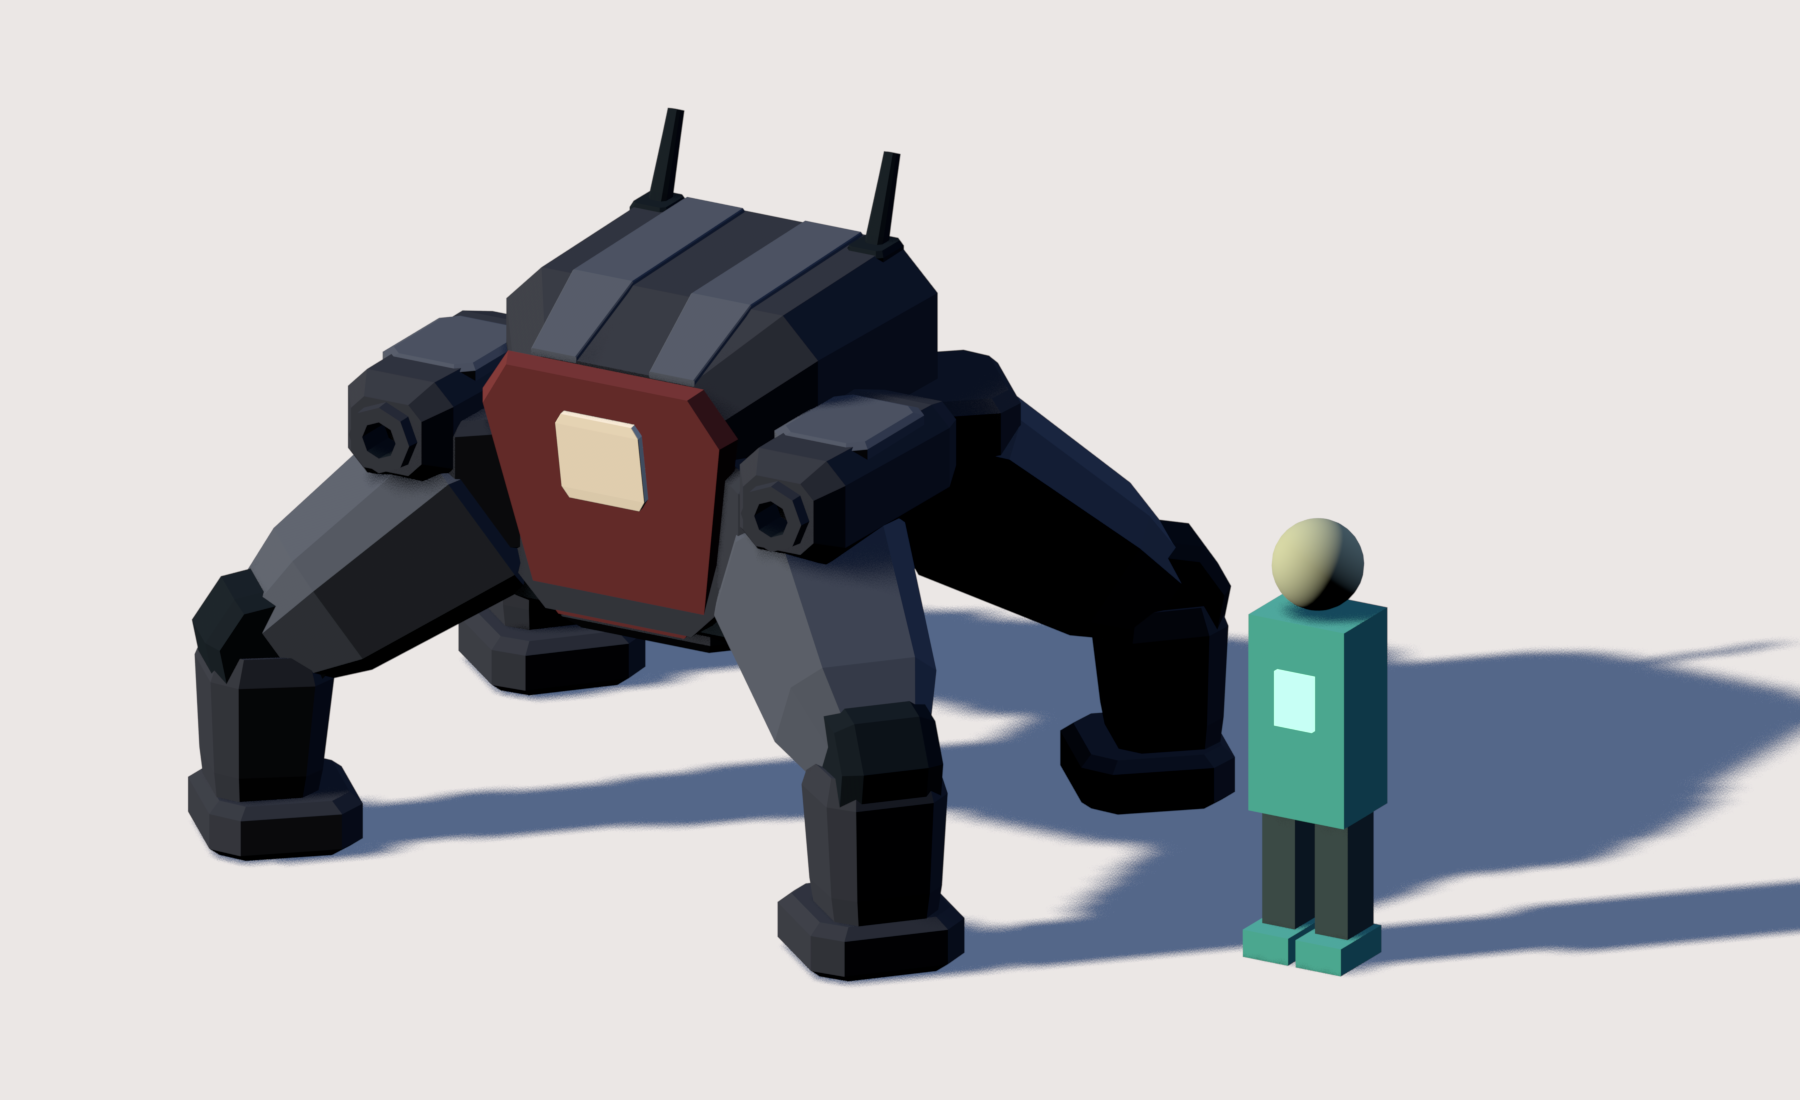
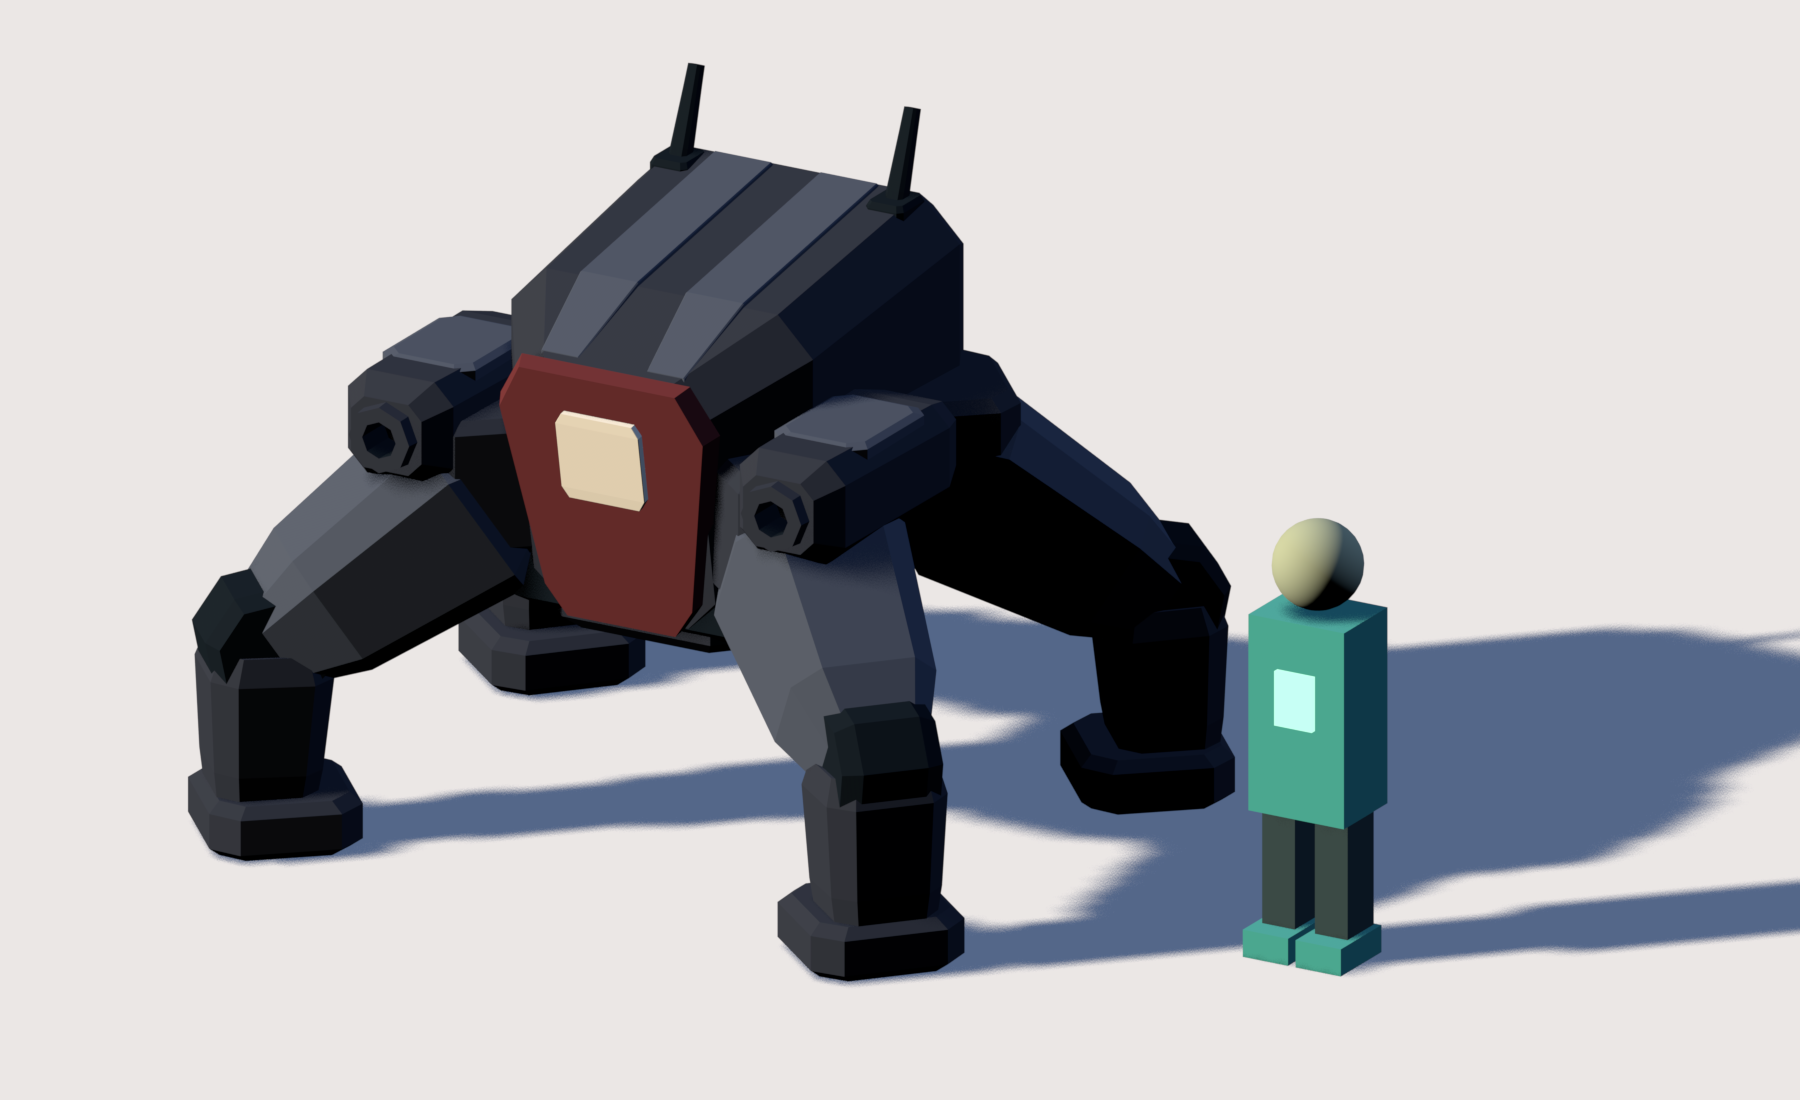
Lengthen C robot body, raise its back and narrow the face

Changed region(s): [[0.2489, 0.0618, 0.56, 0.5873], [0.7467, 0.5564, 1.0, 0.7109], [0.5911, 0.7418, 0.6222, 0.7727]]

diff --git a/apple/sources/content/RobotModelGeometry.swift b/apple/sources/content/RobotModelGeometry.swift
@@ -11,7 +11,7 @@ enum RobotModelGeometry {
 
   // Combat offsets use game axes, facing -z. Gun 0 is the source's left gun.
   static let bodyRadius: Float = 1.298624
-  static let halfHeight: Float = 1.174272
+  static let halfHeight: Float = 1.234272
   static let navigationRadius: Float = 2.067892
   static let gunMounts: [SIMD3<Float>] = [
     [0.78, 1.52, -0.28],

diff --git a/blender/assets/spider-bot-heavy/README.md b/blender/assets/spider-bot-heavy/README.md
@@ -1,6 +1,6 @@
 # spider-bot-heavy
 
-**Status:** The original C form and motion were accepted, integrated and delivered in TestFlight build 29. The maintainer then reported that the game model did not match the agreed concept closely enough and assigned improvements. This source and its three PNG previews now contain a silhouette refinement awaiting visual review; it is not an approved or released replacement. The full check and rendered first-fight test pass on this revision. A remains a possible later different-weapon variant, outside this task. Camera B remains approved.
+**Status:** The original C form and motion were accepted, integrated and delivered in TestFlight build 29. After a first silhouette refinement, the maintainer said the legs look good and requested a longer body, a slightly taller back and a narrower face. This source and its four PNG previews contain that body pass, pending visual review. The current body pass passes the full check and rendered first-fight test (35/35). It is not an approved or released replacement. A remains a possible later different-weapon variant, outside this task. Camera B remains approved.
 
 ![Actual Blender render of the C heavy walker](preview.png)
 
@@ -13,7 +13,7 @@ The earlier [spider-bot](../spider-bot/README.md) remains a rejected historical 
 
 The self-contained `spider-bot-heavy` collection uses metres, stands on z = 0 at its centred origin and faces Blender −y. Its **41 mesh Objects share 17 unique Mesh datablocks**, with **2,492 evaluated triangles and five materials**. Reuse is an authoring property, not measured runtime instancing or draw calls.
 
-The pending refinement gives C a longer tapered face, sloping roof panels, substantial integrated cannon housings with recessed bores, and stouter knees, lower legs and feet. Pivots, actions, link lengths and muzzle-marker transforms remain unchanged. It retains the six shared leg-component meshes, each used four times, and the paired gun components.
+The first refinement added a tapered face, sloping roof panels, integrated cannon housings with recessed bores, and stouter knees, lower legs and feet. The current body pass extends the rear shell by **0.20 m**, raises its roof peak by **0.13 m** and narrows the face by **14%**. Antenna meshes are reseated **0.14 m rearward and 0.12 m upward**. Leg and gun geometry, pivots, actions, link lengths and muzzle-marker transforms remain unchanged from the first refinement. The six shared leg-component meshes still have four users each.
 
 All four legs use the same six shared meshes: socket armour, hip hinge, upper armour, knee hinge, lower link and foot. Editing a component's Mesh in Edit Mode updates its four instances. Moving or posing an Object affects that instance only. Neutral left/right geometry mirrors across x = 0, including material assignments. Proper rotations place each assembly; object scales stay positive and unit. Independently posed legs during a step do not alter this shared geometry.
 
@@ -36,7 +36,7 @@ root
     muzzle-left                 Moves with its barrel
 ```
 
-Connectors sit at `(±0.58, ±0.42, 1.28)` m. Joint pivots meet at their link endpoints; the upper/lower links measure **1.01 / 0.57 m**. Opening the knees slightly gives the shape room to step: current neutral vertex bounds are about **3.02 × 2.56 × 2.35 m**, versus the static study's 2.83 × 2.51 × 2.35 m. Intake's conservative transformed-box bounds are slightly larger. These are provisional authoring dimensions, not approved collision or clearance measurements.
+Connectors sit at `(±0.58, ±0.42, 1.28)` m. Joint pivots meet at their link endpoints; the upper/lower links measure **1.01 / 0.57 m**. Opening the knees slightly gives the shape room to step: current neutral vertex bounds are about **3.02 × 2.56 × 2.47 m**, versus the static study's 2.83 × 2.51 × 2.35 m. Intake's conservative transformed-box bounds are slightly larger. These are provisional authoring dimensions, not approved collision or clearance measurements.
 
 To attach another assembly, select its connector and descendants, duplicate with linked data and place the new connector. Preserve the hierarchy, joint-local origins and unit scales. Make mesh data single-user only for a deliberate new component. Paired roof ridges, antennae, mounts and gun parts also share data. Each gun's separate recoil root carries its housing, plate, barrel and muzzle marker together, providing an attachment point for later variants without building those variants now.
 
@@ -61,26 +61,27 @@ Firing plants all four feet before recoil starts. Both guns use matching stroke/
 
 ## Review and validation
 
-The retained [30-second motion reel](motion-preview.mp4) is a **historical accepted-rig reference showing the earlier 2,428-triangle form**, not the current refinement. It presents separate labelled shots: walk at 0–8 s, turn left at 8–16 s, turn right at 16–24 s, brace/fire/recover at 24–30 s. It is H.264, 960 × 720, 24 fps, with 720 decoded frames. The current [hero preview](preview.png) and [view beside Miki](scale-preview.png) show the refined mesh. The [camera B study](camera-b-preview.png) uses the approved offset `[0, 56, 44]` with the existing **15.4° combat lens**, Miki 8 m from the guard, a 3 m camera lean and target height 0.95 m. The normal lens remains 22°. These PNGs are Blender studies, not Simulator screenshots.
+The retained [30-second motion reel](motion-preview.mp4) is a **historical accepted-rig reference showing the earlier 2,428-triangle form**, not the current refinement. It presents separate labelled shots: walk at 0–8 s, turn left at 8–16 s, turn right at 16–24 s, brace/fire/recover at 24–30 s. It is H.264, 960 × 720, 24 fps, with 720 decoded frames. The current [hero preview](preview.png), [side profile](side-preview.png) and [view beside Miki](scale-preview.png) show the body pass. The [camera B study](camera-b-preview.png) uses the approved offset `[0, 56, 44]` with the existing **15.4° combat lens**, Miki 8 m from the guard, a 3 m camera lean and target height 0.95 m. The normal lens remains 22°. These PNGs are Blender studies, not Simulator screenshots.
 
 They use the bridge's two suns and an authoring exposure of +0.7. Ground, Miki, lights and cameras exist only in unsaved render copies. Public PNG metadata is removed without changing pixels. The Blender source and movie use Git LFS; PNGs below 1 MiB use ordinary Git under the [storage policy](../../../CONTRIBUTING.md#git-lfs-and-cloning).
 
 **Historical motion-study checks, before this refinement:** `./scripts/check` passed contracts, 51 Blender tests, sound fingerprints, Swift formatting, the shared app build and hosted Simulator tests. Independent saved-file inspection sampled 7,204 poses at 240 Hz, including half-key subframes: stance drift stayed below 0.029 mm, stance yaw drift below 0.000060°, foot tilt below 0.0053° and sole penetration below 0.012 mm. Joint gaps were zero; link-length error was below 0.00000023 m. Neutral geometry/material symmetry error was below 0.00000029 m and mirrored-turn error below 0.0000036 m. Shared-data identity, positive unit scales, topology, part contact, materials, muzzle placement, intake and privacy checks passed. Sampled rendered poses were inspected; all 720 movie frames decoded successfully. Prior static checks remain historical in the [prototype plan](../../../docs/prototype-plan.md#concept-c-proportion-study).
 
-**Current refinement checks:** Independent saved-file audits confirm closed manifold meshes, positive volumes, neutral geometry/material symmetry and unchanged pivots, actions and muzzle transforms. The leg-motion audit sampled 7,265 poses: sole penetration remained below 0.012 mm, stance sole-height error below 0.029 mm and foot tilt below 0.0053°. The final cannon-bore revision changes only the shared gun housing/barrel meshes, so the unchanged leg geometry and keys retain that audit. These authoring checks do not establish visual acceptance, runtime verification or phone performance.
+**Current body-pass checks:** Independent saved-file audits confirm closed manifold meshes, positive volumes, neutral geometry/material symmetry and unchanged leg/gun geometry, pivots, actions and muzzle transforms. The leg-motion audit sampled 7,265 poses: sole penetration remained below 0.012 mm, stance sole-height error below 0.029 mm and foot tilt below 0.0053°. The unchanged leg geometry and keys retain that audit through the body pass. These authoring checks do not establish visual acceptance, runtime verification or phone performance.
 
 The maintainer accepted this source motion and assigned bridge integration. The [first-tower record](../../../docs/encounters/bridge-spider-bot.md) describes the initial gameplay choices and remaining balance questions.
 
 | File | Size in bytes | Storage |
 |---|---:|---|
-| `spider-bot-heavy.blend` | 1,721,736 | Git LFS |
+| `spider-bot-heavy.blend` | 1,721,852 | Git LFS |
 | `motion-preview.mp4` | 1,274,401 | Git LFS |
-| `preview.png` | 354,143 | Ordinary Git |
-| `scale-preview.png` | 449,571 | Ordinary Git |
-| `camera-b-preview.png` | 114,433 | Ordinary Git |
+| `preview.png` | 356,503 | Ordinary Git |
+| `scale-preview.png` | 443,938 | Ordinary Git |
+| `camera-b-preview.png` | 115,621 | Ordinary Git |
+| `side-preview.png` | 274,612 | Ordinary Git |
 
 ## Runtime integration
 
 The [runtime USDZ](../../../apple/sources/content/models/spider-bot-heavy.usdz) retains this model's CC BY 4.0 credit and changes. `RobotModelGeometry.swift` is generated alongside it, with both outputs fingerprinted against this Blender source. The output keeps the named leg pivots, gun mounts and muzzle markers; other models retain their existing export path. Runtime stepping follows actual translation and turning, rather than the authoring timeline's travel or reset frames. A remains a later variation, not an extra runtime model.
 
-For the original form shipped in build 29, the standard check, loaded-model joint/muzzle tests and rendered first-fight (35/35), retry (15/15) and full opening (56/56) passed. Runtime gait uses a 1° stop-turn-advance gate and earlier stepping so tested patrol/combat feet remain reachable, with independent FK/stance errors below 0.002 mm. The refined export also passes the full check, including the real-USDZ joint/grounding/muzzle tests, and a new rendered first-fight run (35/35) with no failures or companion warnings. Generated bounds follow the new geometry: navigation clearance increases by about 3 mm. See the [runtime verification](../../../docs/prototype-plan.md#c-silhouette-refinement--awaiting-visual-review). No new TestFlight delivery is claimed. The authoring audits above are not measurements of runtime gait or physical-phone performance.
+For the original form shipped in build 29, the standard check, loaded-model joint/muzzle tests and rendered first-fight (35/35), retry (15/15) and full opening (56/56) passed. Runtime gait uses a 1° stop-turn-advance gate and earlier stepping so tested patrol/combat feet remain reachable, with independent FK/stance errors below 0.002 mm. The first refinement at `3d5d810` also passed the full check and rendered first-fight (35/35), with no failures or companion warnings; its generated navigation clearance increased by about 3 mm. The body pass also passes the full check and a fresh rendered first-fight run (35/35), with no failures or companion warnings. Its generated half-height is 1.234272 m; body/navigation radii, joint lengths and muzzle transforms are unchanged from the first refinement. See the [runtime verification](../../../docs/prototype-plan.md#c-body-proportions--awaiting-visual-review). No new TestFlight delivery is claimed. The authoring audits above are not measurements of runtime gait or physical-phone performance.

diff --git a/docs/prototype-plan.md b/docs/prototype-plan.md
@@ -110,13 +110,13 @@ The follow-up review for [PR #134](https://github.com/RonildoBraga/lauder/pull/1
 
 **TestFlight integration, 23 November 2026:** The maintainer authorised integrating the reviewed work and delivering it through TestFlight. [PR #134](https://github.com/RonildoBraga/lauder/pull/134) incorporated #128–#133 as one squash because the repository allows squash merges only; the earlier drafts were closed as incorporated rather than individually merged. Integrated app/archive source `ea47e2b40d5fa4a4c4c16149e9755ac5475f9b7e` has the exact tree of reviewed release-preparation commit `26c5d99977290283b41e6a2a3ed93dfcabc17c4c`. Apple discovery selected unused **0.1.0 (29)**, and archive/upload rechecked accepted and processing uploads. The [delivery record](#testflight-delivery) confirms processing and unchanged tester access. Physical-phone behaviour and performance remain unverified.
 
-### C silhouette refinement — awaiting visual review
+### C body proportions — awaiting visual review
 
-After build 29 was delivered, the maintainer reported that the robot did not resemble the agreed concept closely enough and assigned improvements. The current [Blender source and three PNG previews](../blender/assets/spider-bot-heavy/README.md) revise the tapered mask and roof, integrate chunkier cannons with recessed bores, and strengthen the lower legs, knees and feet. The model retains 41 mesh Objects, 17 shared Mesh datablocks and five materials, with 2,492 triangles. The six leg-component meshes still have four users each; pivots, actions, link lengths and muzzle transforms remain unchanged.
+After build 29 was delivered, the maintainer reported that the robot did not resemble the agreed concept closely enough and assigned improvements. A first refinement revised the tapered mask and roof, integrated chunkier cannons with recessed bores, and strengthened the lower legs, knees and feet. The maintainer then said the legs look good and requested a longer body, a slightly taller back and a narrower face. The current [Blender source and four PNG previews](../blender/assets/spider-bot-heavy/README.md) apply that body pass: rear shell +0.20 m, roof peak +0.13 m and face width −14%, with the antenna meshes reseated +0.14 m rearward and +0.12 m upward. Leg/gun geometry and the rig are preserved. The model retains 41 mesh Objects, 17 shared Mesh datablocks, five materials and 2,492 triangles; the six leg-component meshes still have four users each.
 
-Independent authoring audits pass for mesh closure, positive volumes, symmetry and preserved rig data. A 7,265-pose leg-motion audit remains valid through the final gun-only correction because leg geometry and keys are unchanged. The replacement PNGs show actual refined geometry; the camera-B study uses the existing 15.4° combat lens, offset `[0, 56, 44]`, Miki 8 m from the guard and a 3 m lean towards it, at target height 0.95 m. They use the bridge lights and +0.7 authoring exposure and are Blender studies rather than Simulator screenshots. The retained movie shows the earlier accepted form.
+Independent authoring audits pass for mesh closure, positive volumes, symmetry, protected leg/gun geometry and preserved rig data. A 7,265-pose leg-motion audit remains valid because leg geometry and keys are unchanged. The replacement PNGs, including a side profile, show actual body-pass geometry; the camera-B study uses the existing 15.4° combat lens, offset `[0, 56, 44]`, Miki 8 m from the guard and a 3 m lean towards it, at target height 0.95 m. They use the bridge lights and +0.7 authoring exposure and are Blender studies rather than Simulator screenshots. The retained movie shows the earlier accepted form.
 
-The refined Blender source, USDZ and generated geometry pass `./scripts/check`, including source/release contracts, 52 Blender tests, sounds, formatting, the app build and hosted Swift Testing with the real-USDZ joint/muzzle and foot regressions. A new rendered `first-fight` passes **35/35**, with zero failures or companion warnings; movement, turns, actual bursts, recovery, defeat and Restart were recorded and frames inspected. Mean frame time was **16.7 ms**, p99 **16.8 ms**, maximum **115.1 ms** on Simulator; this does not establish phone performance. Runtime/source fingerprints match throughout validation. Navigation radius is regenerated as **2.067892 m** (about 3 mm larger), and body radius as **1.298624 m**; joint lengths, muzzle markers, camera, bridge geometry and gameplay code remain unchanged. Visual approval, merge and release have not occurred. Build 29 remains the last TestFlight delivery and contains the previous form.
+The first refinement at `3d5d810` passed `./scripts/check`, including source/release contracts, 52 Blender tests, sounds, formatting, the app build and hosted Swift Testing with the real-USDZ joint/muzzle and foot regressions. Its rendered `first-fight` passed **35/35**, with zero failures or companion warnings; movement, turns, actual bursts, recovery, defeat and Restart were recorded and frames inspected. Mean frame time was **16.7 ms**, p99 **16.8 ms**, maximum **115.1 ms** on Simulator; these are historical first-refinement results, not verification of the later body pass or phone performance. Runtime/source fingerprints matched that validation. Its generated navigation radius was **2.067892 m** (about 3 mm larger), and body radius **1.298624 m**. The later body pass also passes the full check and a fresh rendered first-fight run (**35/35**) with no failures or companion warnings. Source/runtime fingerprints remain unchanged through validation. Its only generated geometry change is half-height **1.234272 m** (+6 cm); body/navigation radii, joint lengths, muzzle transforms and all leg/gun geometry are unchanged from the first refinement. The new Simulator run measured 16.7 ms mean, 16.8 ms p99 and 33.3 ms maximum; these are not phone measurements. Its visual approval, merge and release have not occurred. Build 29 remains the last TestFlight delivery and contains the previous form.
 
 ### Architecture checks
 
@@ -163,7 +163,7 @@ The build 26 tuning and measurements in [ADR 0016](decisions/0016-combat-balance
 
 ## Combat design review gate
 
-The original C first-tower runtime prototype is implemented and its source/Simulator checks passed for build 29. First review the pending silhouette refinement against concept C in both the close view and camera B. Its current verification is recorded above. Review whether the short loop is readable and enjoyable; source tests and Simulator success do not settle balance or phone performance. New scenes, A's variant and releases remain separate work.
+The original C first-tower runtime prototype is implemented and its source/Simulator checks passed for build 29. First review the pending body proportions against concept C in both the close view and camera B. Their current verification is recorded above. Review whether the short loop is readable and enjoyable; source tests and Simulator success do not settle balance or phone performance. New scenes, A's variant and releases remain separate work.
 
 The broader squad combat direction, [The Quiet Yard](encounters/the-quiet-yard.md) and later narrative plans remain reference rather than assignments. The removed S4 experiments stay retired.
 

diff --git a/README.md b/README.md
@@ -18,7 +18,7 @@ The latest TestFlight delivery is the bridge-only prototype with the Blender env
 
 **Camera and robot, 23 November 2026:** Camera B remains approved: offset `[0, 56, 44]`, 22° lens. C's retained [motion reel](blender/assets/spider-bot-heavy/motion-preview.mp4) records the earlier accepted form and rig studies. Runtime geometry and joint/muzzle measurements come from Blender; fixed-step combat owns decisions and the presenter poses the loaded parts from actual movement and firing. The original standard check and rendered Simulator guard, retry and full-opening routes passed; the [prototype plan](docs/prototype-plan.md#c-robot-on-the-bridge) records that evidence for TestFlight build 29. Physical-phone behaviour and performance remain unverified.
 
-**C silhouette refinement, pending review:** Following the maintainer's report that the game model differed from concept C, the current [Blender source and PNG previews](blender/assets/spider-bot-heavy/README.md) have a longer tapered face, integrated chunky cannons with recessed bores, and stouter lower legs, knees and feet. The symmetric shared components, pivots and accepted motion keys remain. The full check and rendered first-fight test pass; visual approval remains pending. This revision is not merged or released. Build 29 retains the previous form. A's later variation remains deferred.
+**C body proportions, pending review:** The maintainer said the refined legs look good and requested a longer body, a slightly taller back and a narrower face. The current [Blender source and four PNG previews](blender/assets/spider-bot-heavy/README.md) apply that body pass while preserving the leg and gun geometry, shared components, pivots and motion keys. The current body pass passes the full check and rendered first-fight test (35/35). Its visual approval, merge and release remain pending. Build 29 retains the previous form. A's later variation remains deferred.
 
 ## Start here
 
